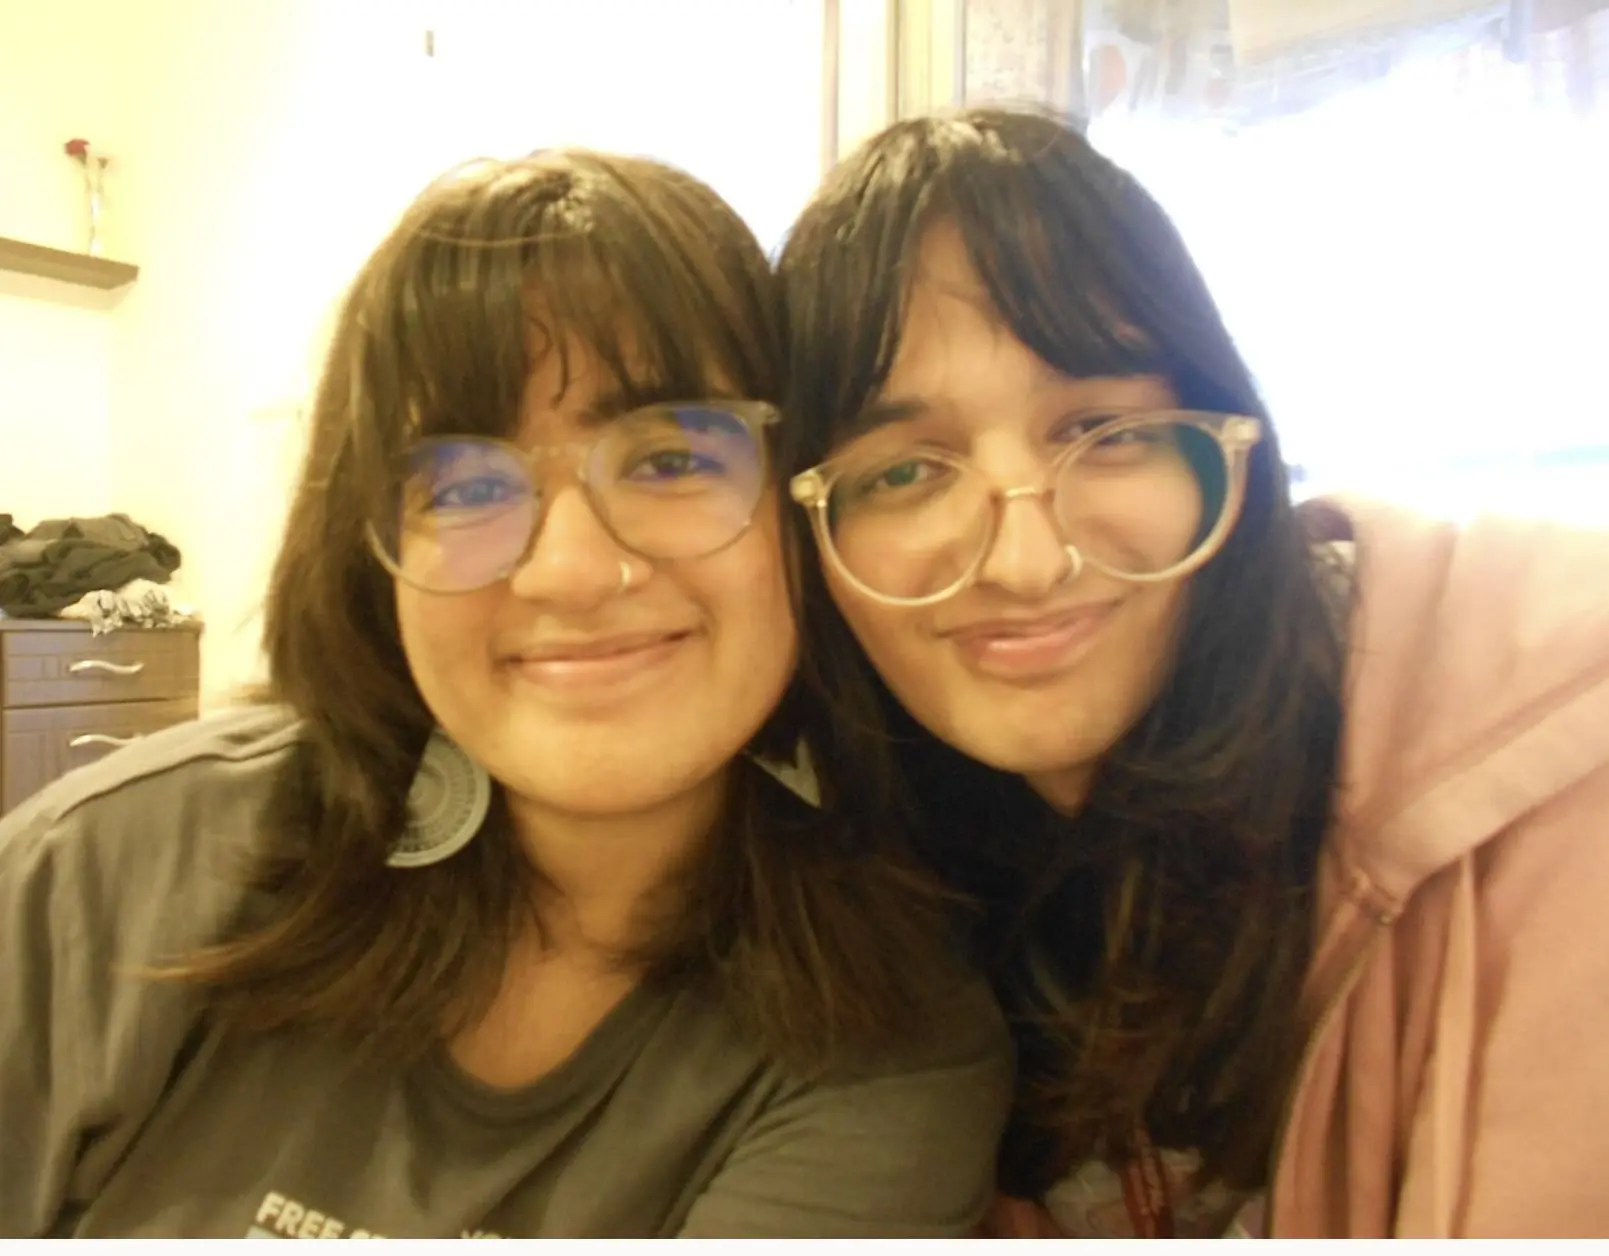
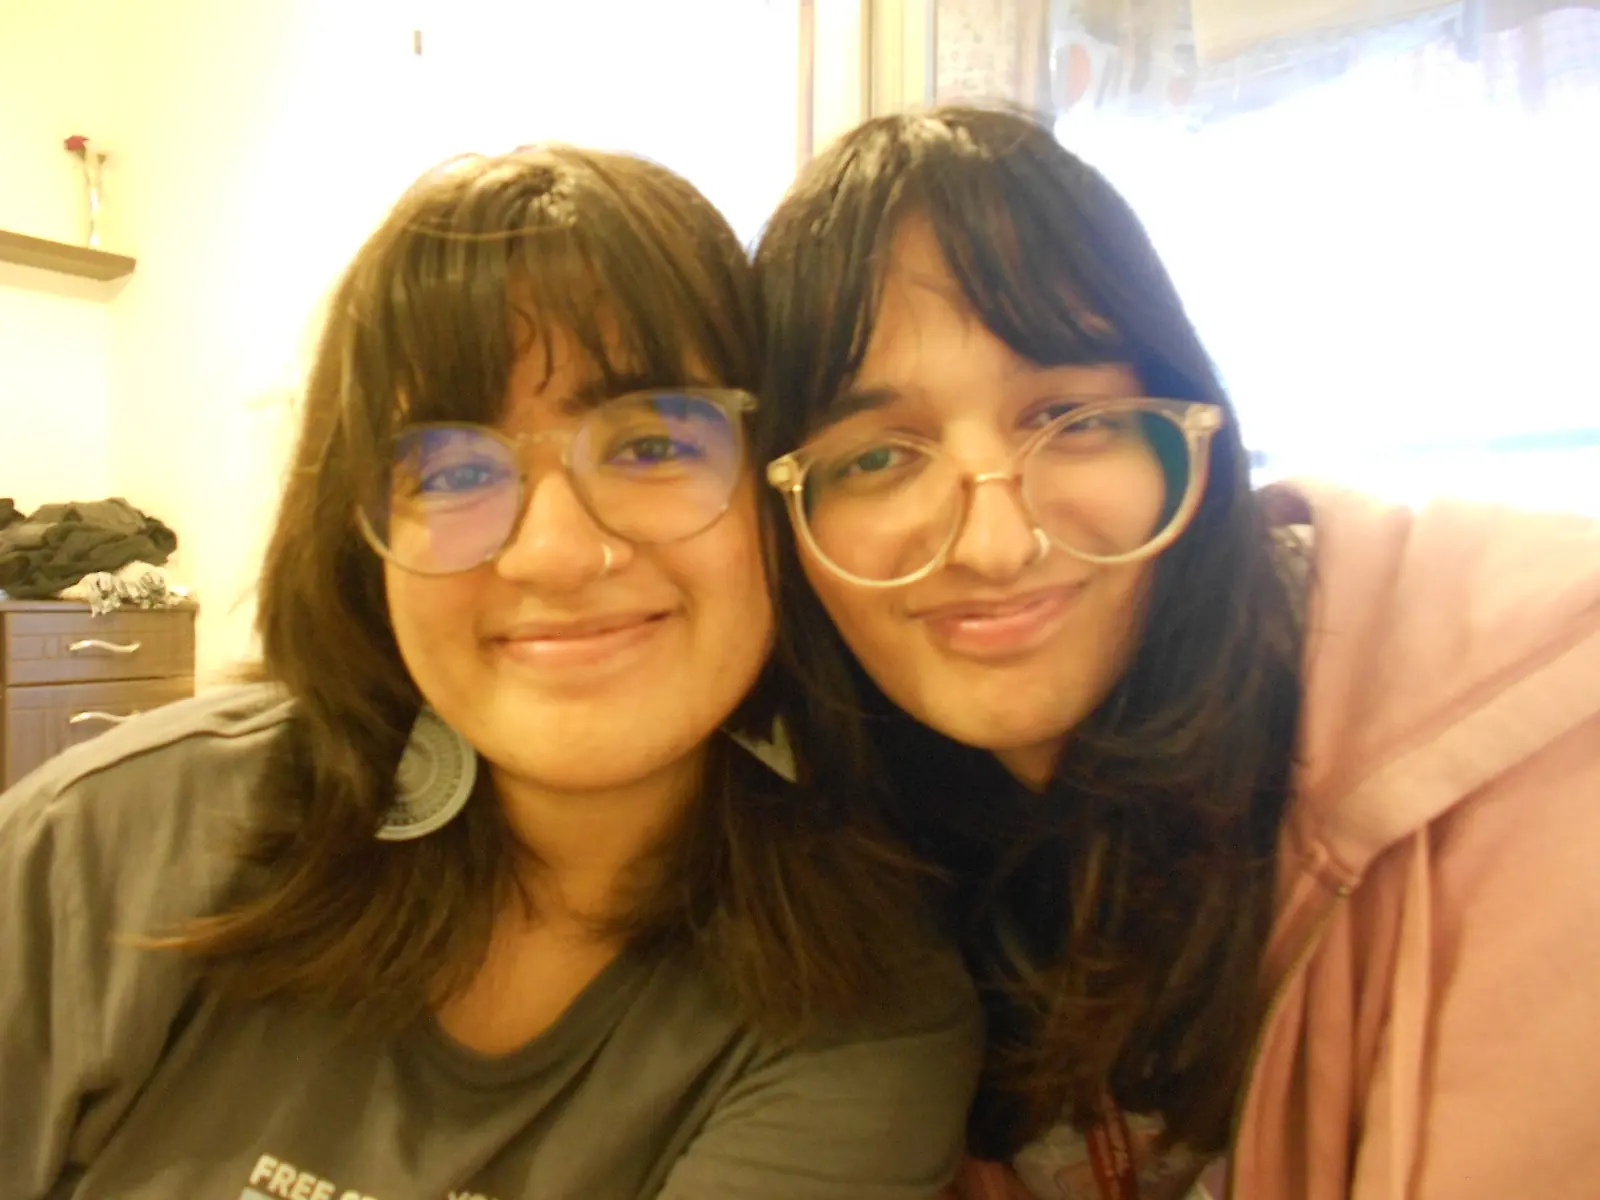
Her own painted grounds behind the memories

diff --git a/memorial/index.html b/memorial/index.html
@@ -84,6 +84,34 @@ h2.title .amp{ color:var(--purple-2); }
 .hero-sub{ margin-top:1.5rem; color:var(--dim); font-size:clamp(.9rem,1.5vw,1.05rem); letter-spacing:.03em; }
 .hero-art{ width:100%; height:auto; display:block; }
 
+/* ---------- full-bleed slides (2 and 3) ---------- */
+.slide > .bg{
+  position:absolute; inset:0; z-index:-2;
+  background-size:cover; background-position:center; background-repeat:no-repeat;
+}
+.s-bleed .pad{ justify-content:flex-end; padding-bottom:clamp(44px,7vh,84px); }
+.s-bleed > .veil{
+  position:absolute; inset:0; z-index:-1;
+  background:linear-gradient(to top,
+    rgba(251,250,249,.97) 0%,
+    rgba(251,250,249,.86) 13%,
+    rgba(251,250,249,.34) 27%,
+    rgba(251,250,249,0) 42%);
+}
+.s-bleed h2.title{ text-shadow:0 1px 22px rgba(251,250,249,.85); }
+
+/* ---------- painted grounds from SUICIDELAND (4,5,6,7,9) ---------- */
+.s-paint > .veil{
+  position:absolute; inset:0; z-index:-1;
+  background:rgba(251,250,249,.40);
+}
+.s-paint h2.title{ text-shadow:0 1px 20px rgba(251,250,249,.92); }
+/* a white print mat, drawn with box-shadow so it costs no layout space */
+.s-paint .fit-row img{
+  box-shadow:0 0 0 clamp(6px,.65vw,11px) var(--paper),
+             0 20px 46px rgba(75,46,143,.22);
+}
+
 /* ---------- photo slides ---------- */
 .fit-row{
   flex:1 1 auto; min-height:0; display:flex; align-items:center;
@@ -225,27 +253,27 @@ body.present .hint{ opacity:0; pointer-events:none; }
   </section>
 
   <!-- 2 -->
-  <section class="slide s-fit">
+  <section class="slide s-bleed">
+    <div class="bg" style="background-image:url('s2-abode.webp')"></div>
+    <div class="veil"></div>
     <div class="pad">
       <h2 class="title">Mavis’s abode and friends</h2>
-      <div class="fit-row">
-        <img src="s2-abode.webp" alt="Mavis in her room under fairy lights">
-      </div>
     </div>
   </section>
 
   <!-- 3 -->
-  <section class="slide s-fit">
+  <section class="slide s-bleed">
+    <div class="bg" style="background-image:url('s3-cuties-room.webp')"></div>
+    <div class="veil"></div>
     <div class="pad">
       <h2 class="title">Jiggy <span class="amp">&amp;</span> Mavis</h2>
-      <div class="fit-row">
-        <img src="s3-cuties-room.webp" alt="Cutie’s Room, drawn by Mavis">
-      </div>
     </div>
   </section>
 
   <!-- 4 -->
-  <section class="slide s-fit" data-track="exist-for-love,dawning-of-spring">
+  <section class="slide s-fit s-paint" data-track="exist-for-love,dawning-of-spring">
+    <div class="bg" style="background-image:url('bg4.webp')"></div>
+    <div class="veil"></div>
     <div class="pad">
       <h2 class="title">Pari’s Mavis</h2>
       <div class="fit-row two">
@@ -256,7 +284,9 @@ body.present .hint{ opacity:0; pointer-events:none; }
   </section>
 
   <!-- 5 -->
-  <section class="slide s-fit">
+  <section class="slide s-fit s-paint">
+    <div class="bg" style="background-image:url('bg5.webp')"></div>
+    <div class="veil"></div>
     <div class="pad">
       <h2 class="title">Nehal’s Mavis</h2>
       <div class="fit-row two">
@@ -267,7 +297,9 @@ body.present .hint{ opacity:0; pointer-events:none; }
   </section>
 
   <!-- 6 -->
-  <section class="slide s-fit single">
+  <section class="slide s-fit single s-paint">
+    <div class="bg" style="background-image:url('bg6.webp')"></div>
+    <div class="veil"></div>
     <div class="pad">
       <div class="fit-copy">
         <h2 class="title">Sameer’s Mavis</h2>
@@ -279,7 +311,9 @@ body.present .hint{ opacity:0; pointer-events:none; }
   </section>
 
   <!-- 7 -->
-  <section class="slide s-fit">
+  <section class="slide s-fit s-paint">
+    <div class="bg" style="background-image:url('bg7.webp')"></div>
+    <div class="veil"></div>
     <div class="pad">
       <h2 class="title">Manasvi’s Mavis</h2>
       <div class="fit-row">
@@ -314,7 +348,9 @@ body.present .hint{ opacity:0; pointer-events:none; }
   </section>
 
   <!-- 9 -->
-  <section class="slide s-fit">
+  <section class="slide s-fit s-paint">
+    <div class="bg" style="background-image:url('bg9.webp')"></div>
+    <div class="veil"></div>
     <div class="pad">
       <h2 class="title">Ananya <span class="amp">&amp;</span> Mavi</h2>
       <div class="fit-row">
